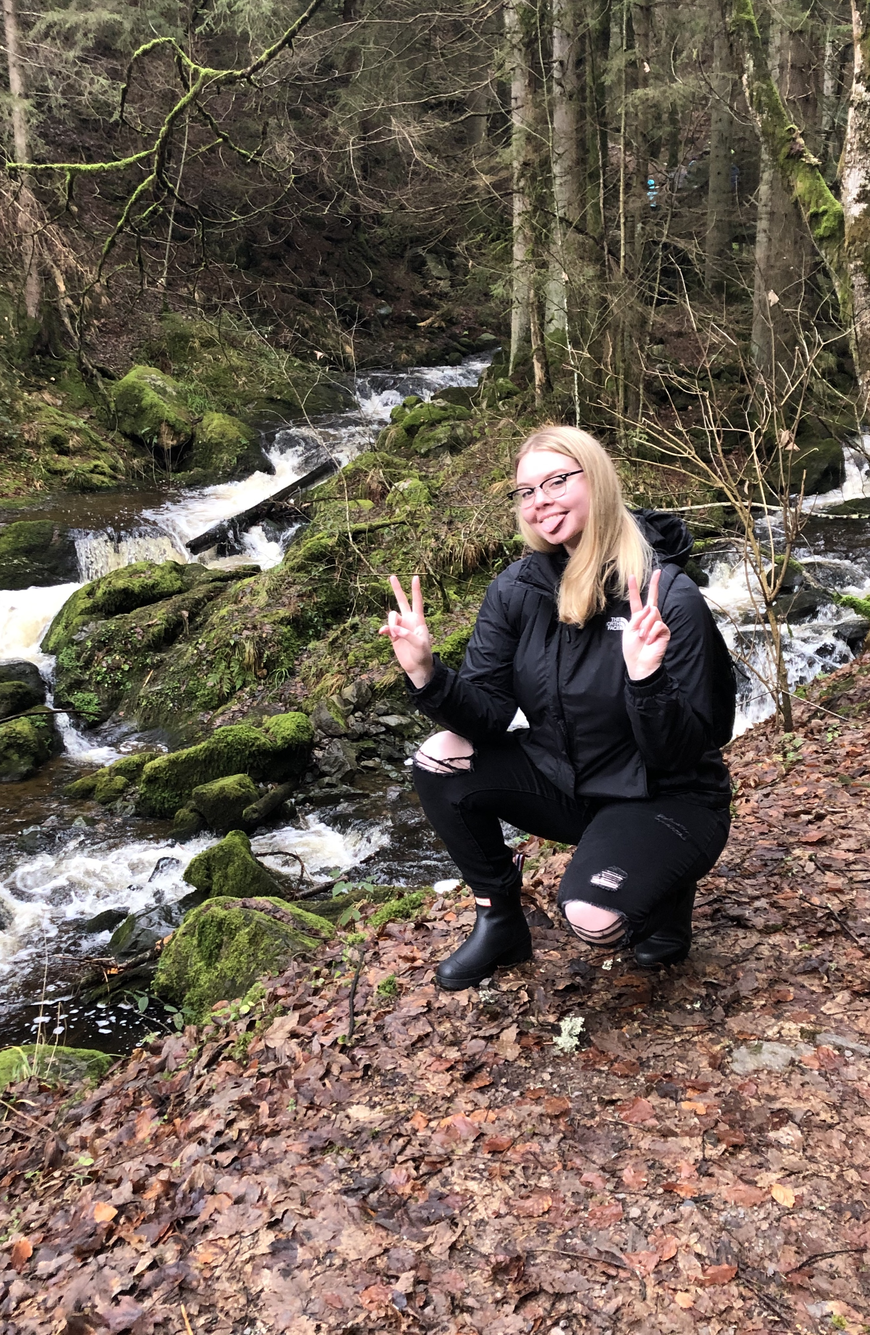
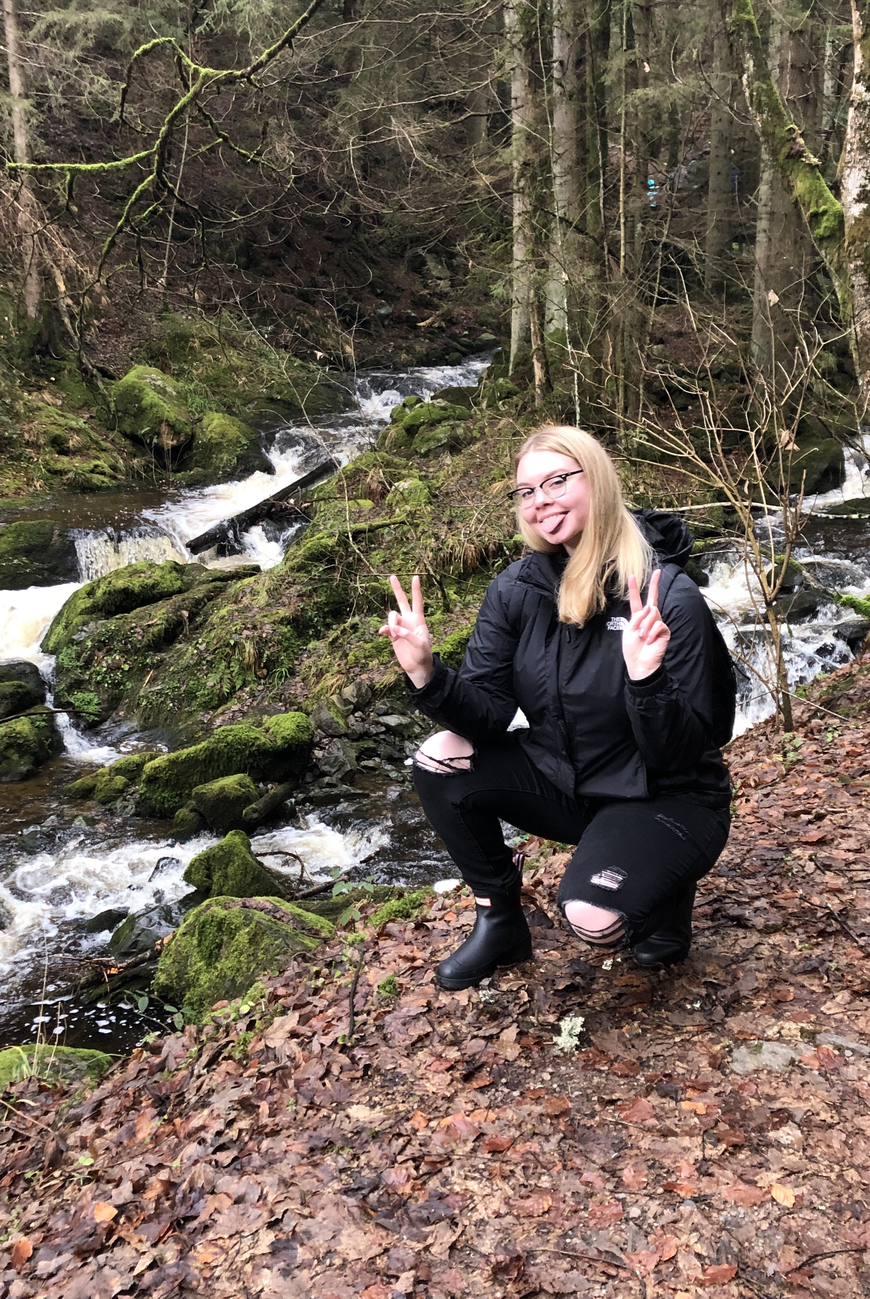
Fixed image height

diff --git a/index.html b/index.html
@@ -48,13 +48,13 @@
 
 <div class="row">
     <div class="column">
-      <img src="ForestInspo.jpg" alt="Trees" style="width:100%">
+      <img src="ForestInspo.jpg" alt="Trees" style="width:100%" style="max-height:50%">
     </div>
     <div class="column">
-      <img src="MeIntheForest.jpeg" alt="Forest" style="width:100%">
+      <img src="MeIntheForest.jpeg" alt="Forest" style="width:100%" style="max-height:50%">
     </div>
     <div class="column">
-      <img src="ForestRange.jpg" alt="River" style="width:100%">
+      <img src="ForestRange.jpg" alt="River" style="width:100%" style="max-height:50%">
     </div>
   </div>
   
